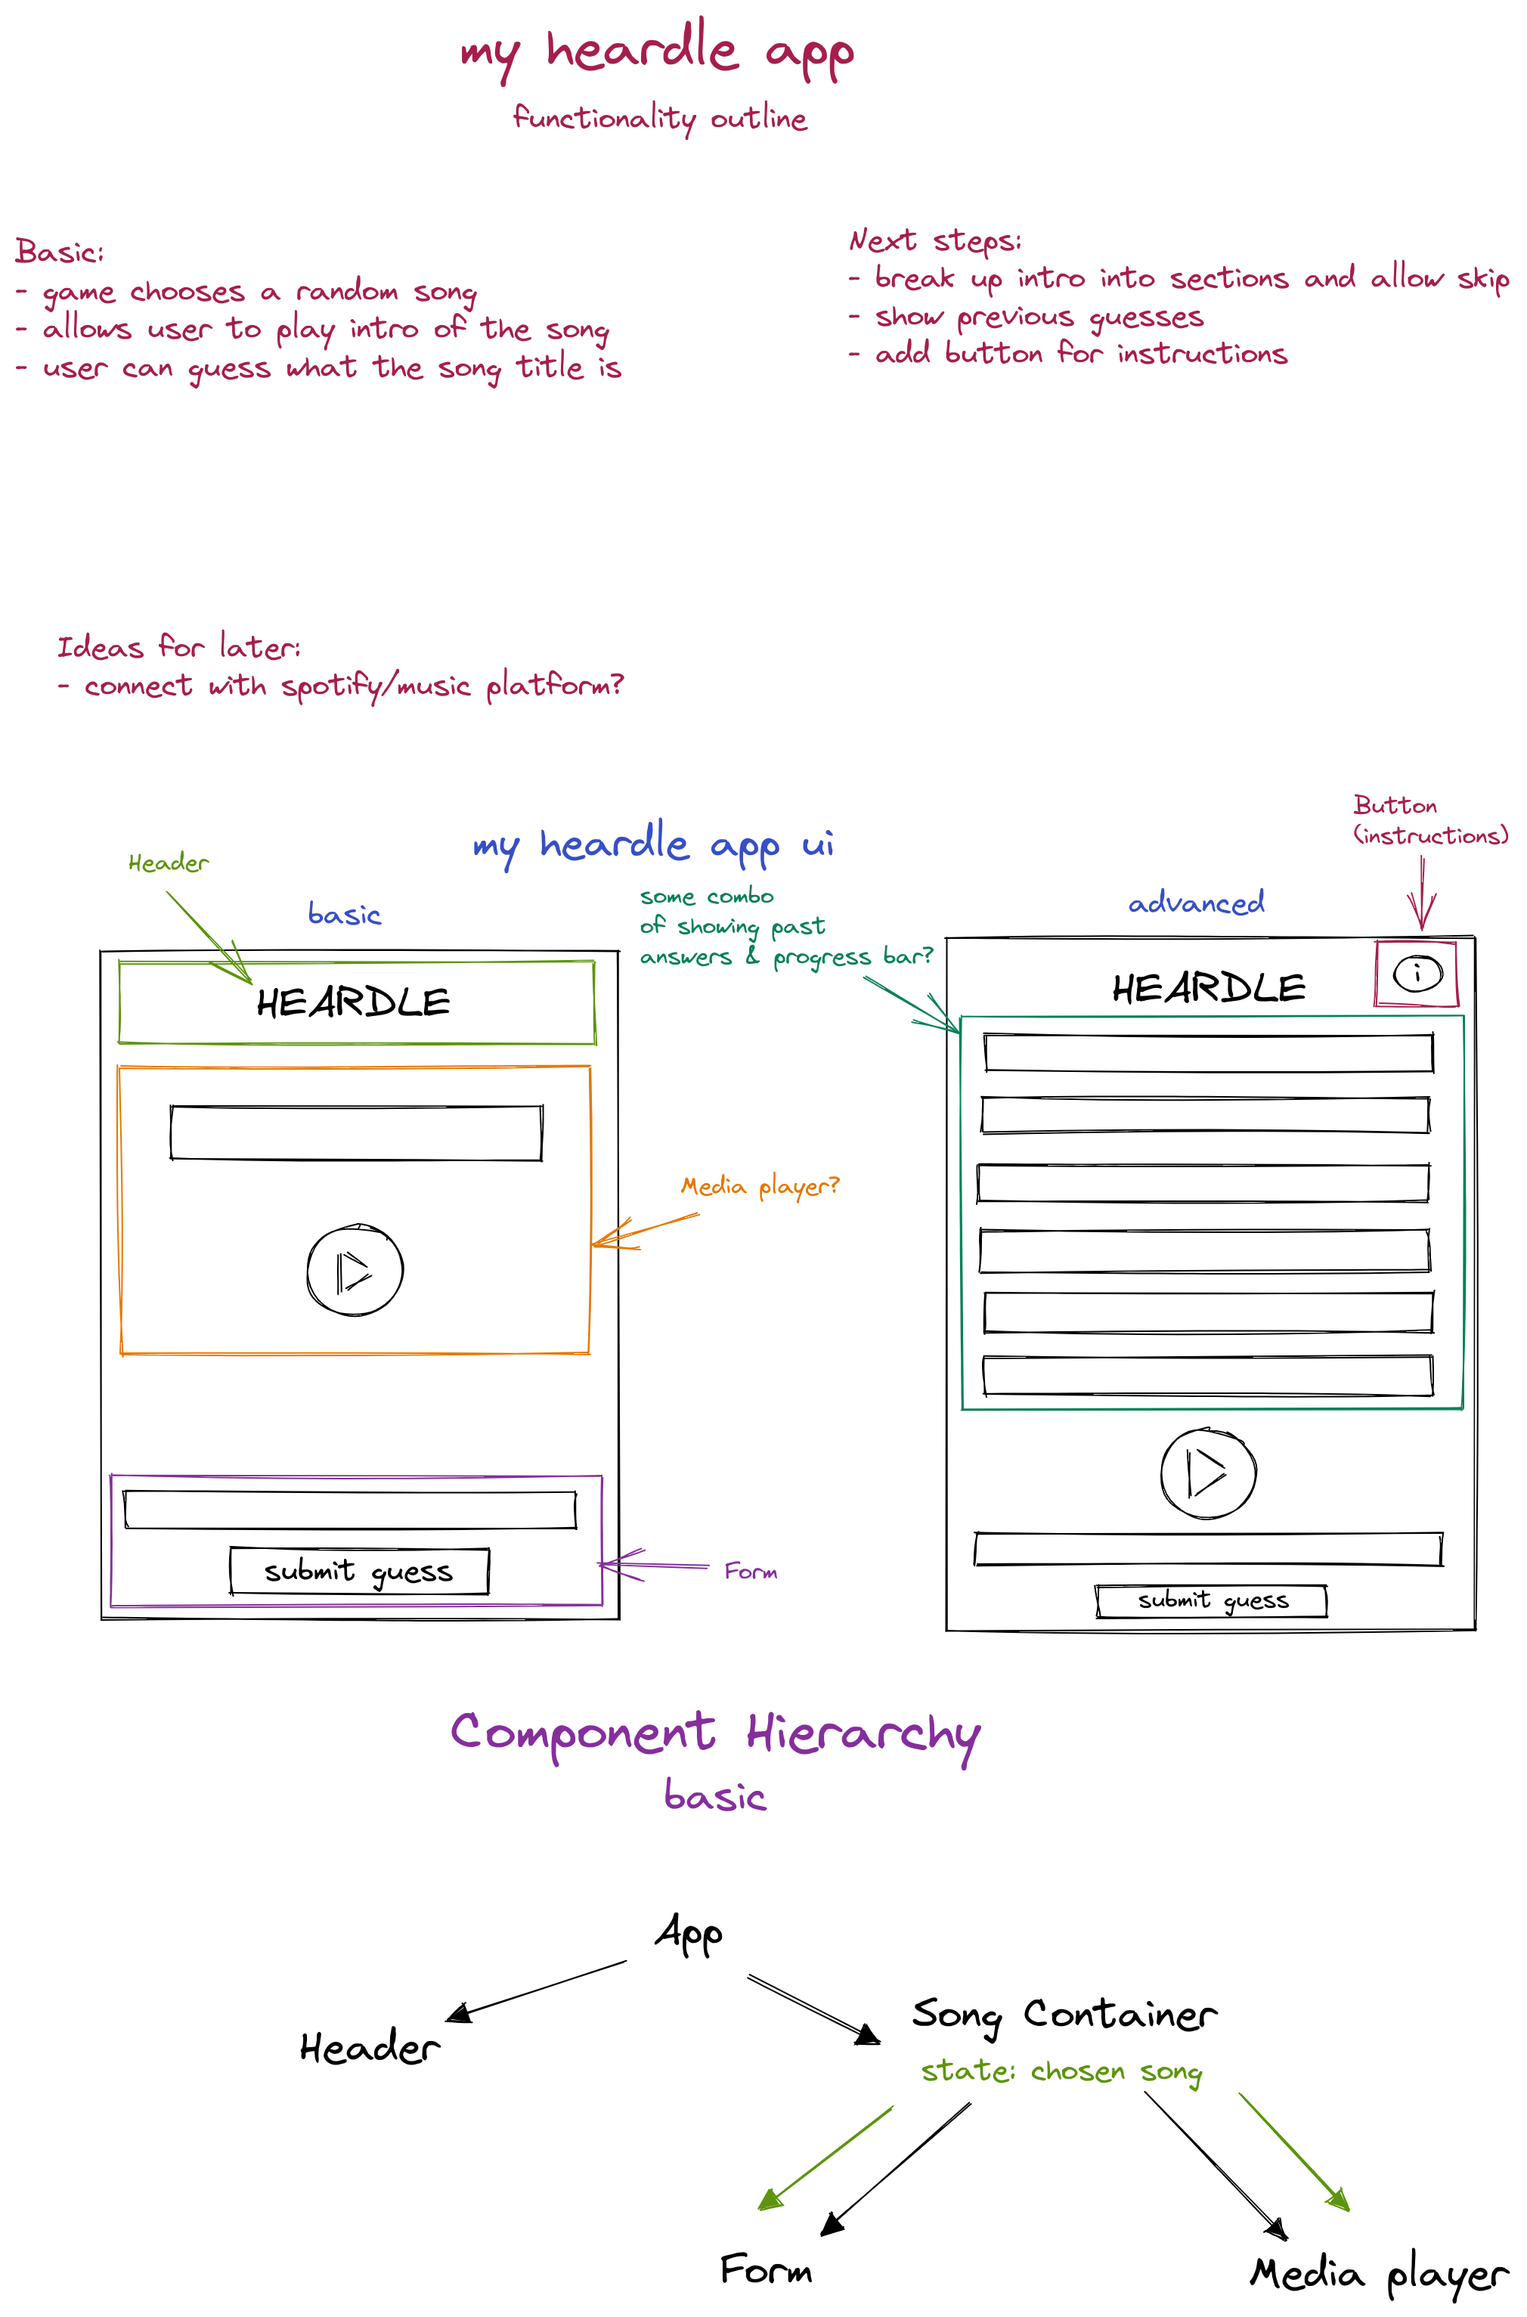
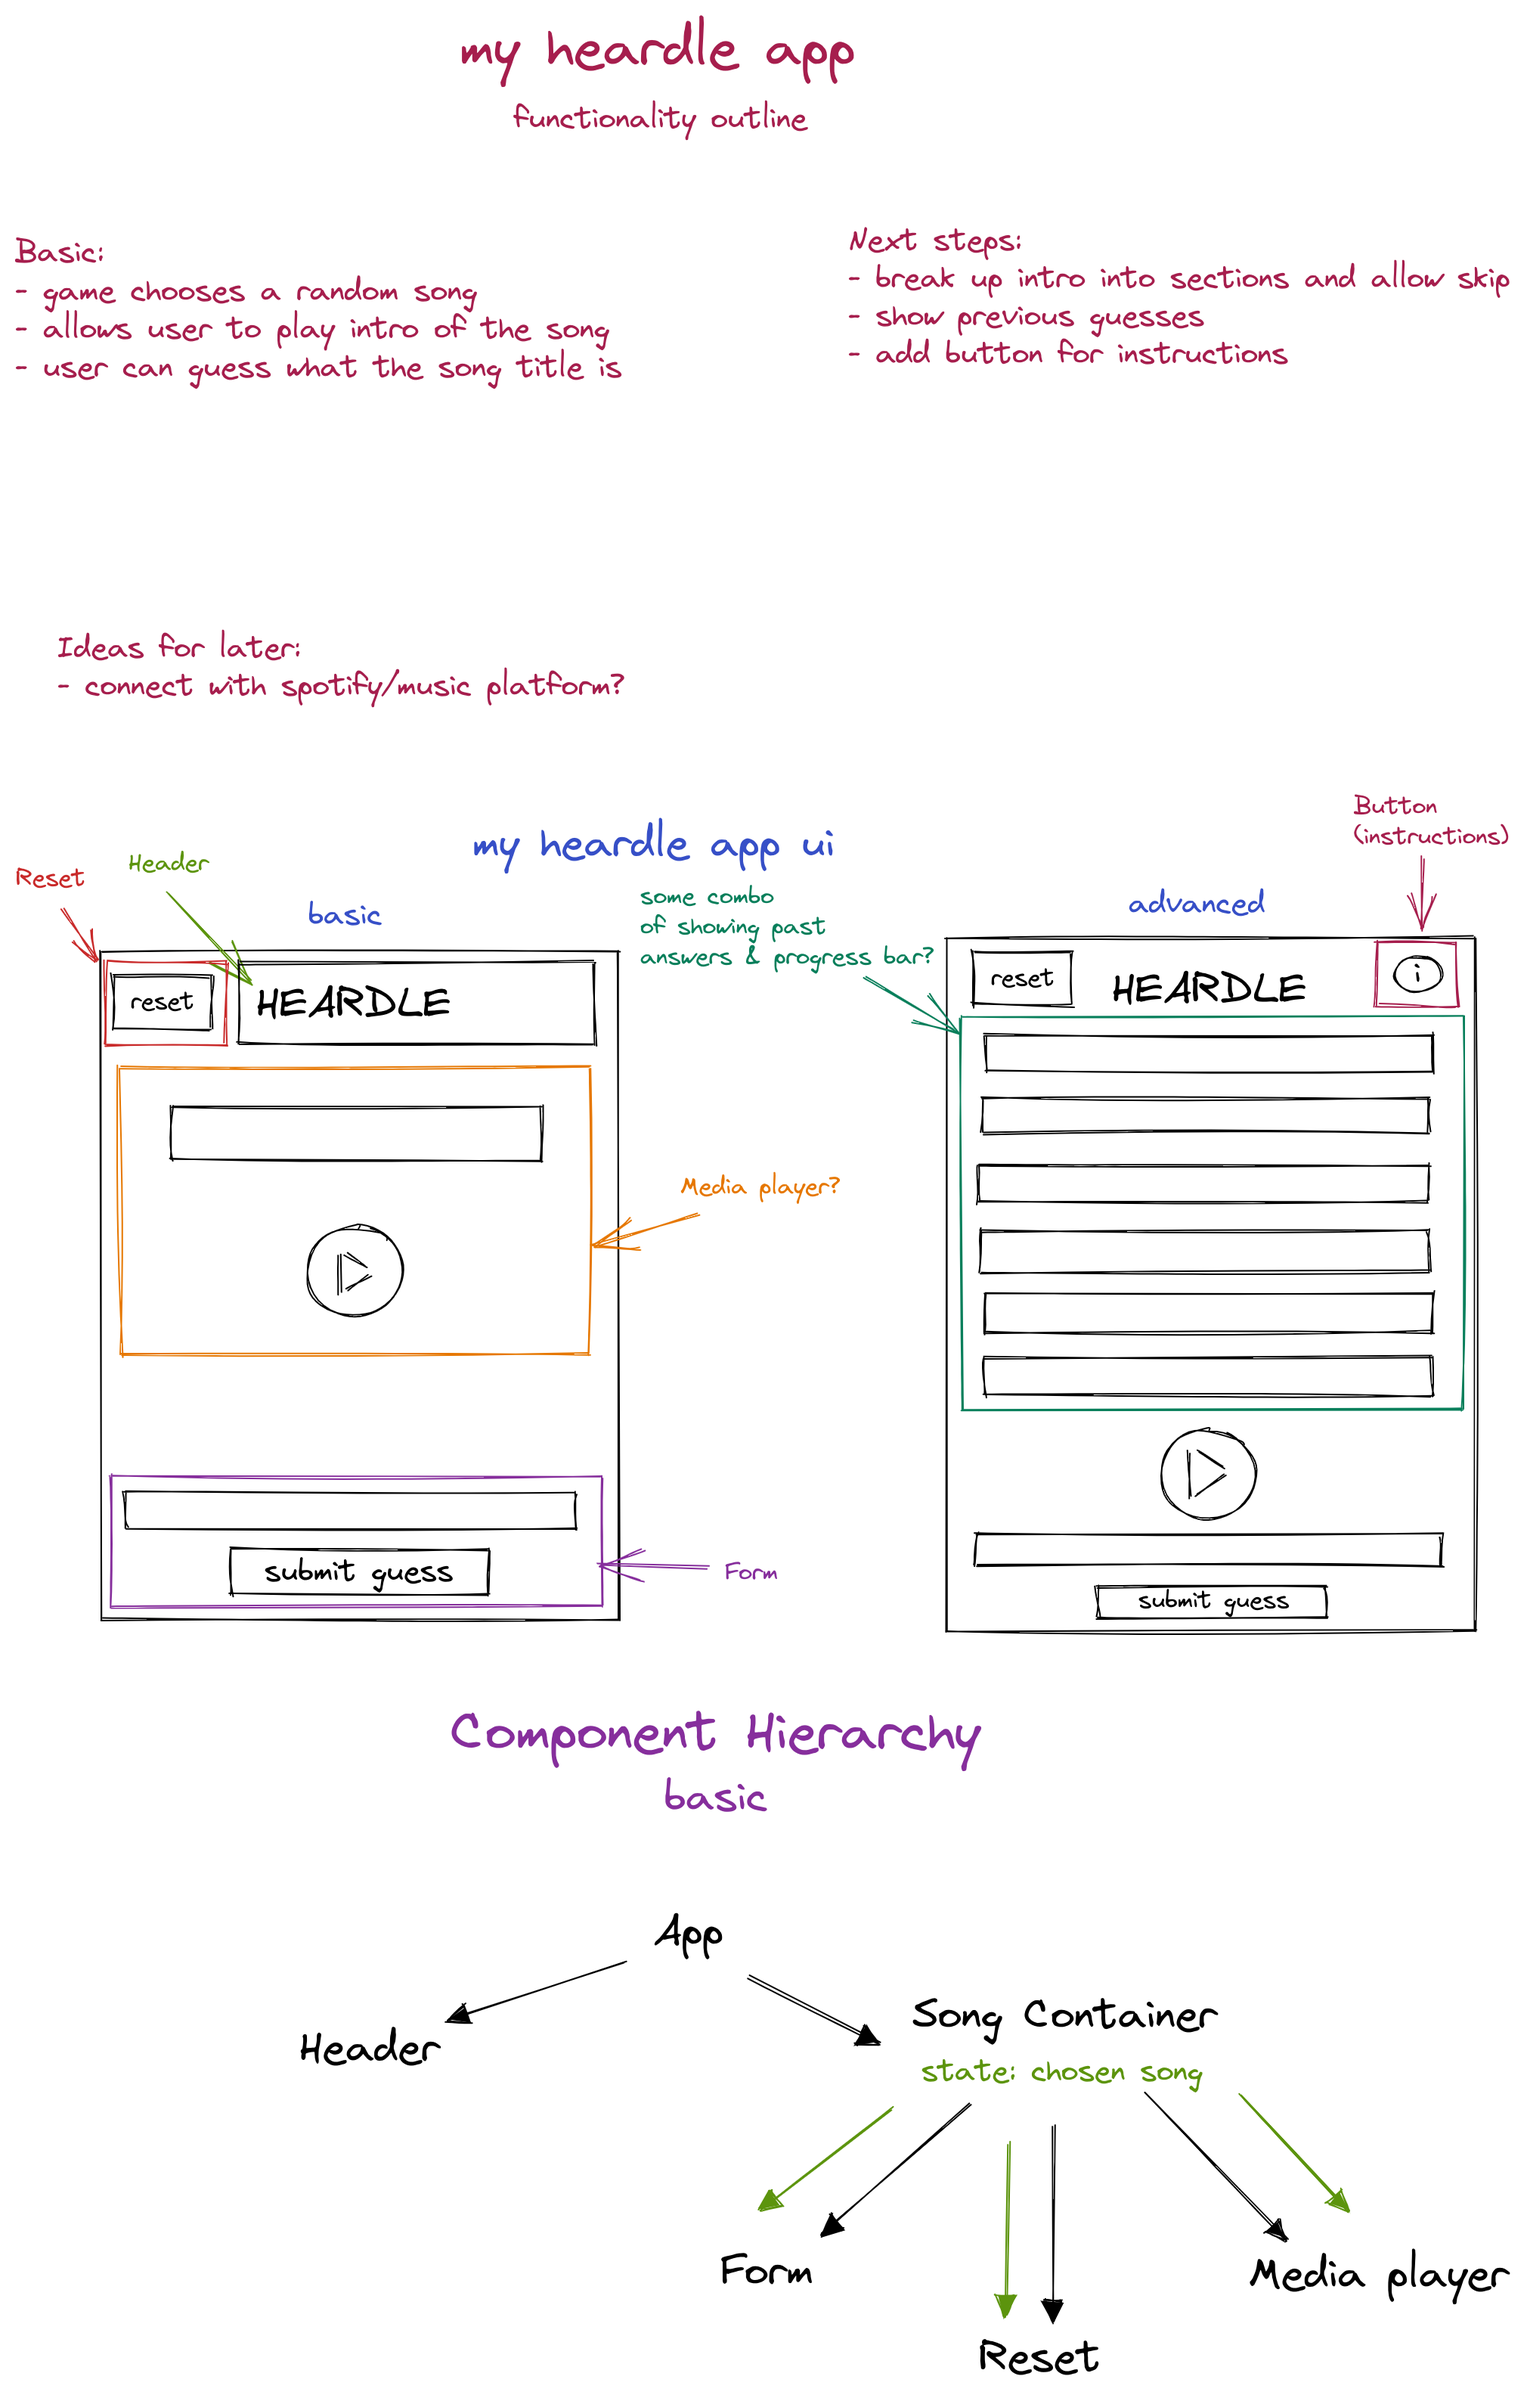
update outline and add non-audio components

diff --git a/src/App.js b/src/App.js
@@ -1,7 +1,14 @@
 import "./App.css";
+import Header from "./components/Header";
+import SongContainer from "./components/Form";
 
 function App() {
-  return <div className="App"></div>;
+  return (
+    <div className="App">
+      <Header />
+      <SongContainer />
+    </div>
+  );
 }
 
 export default App;

diff --git a/src/components/SongContainer.jsx b/src/components/SongContainer.jsx
@@ -1,0 +1,13 @@
+import Form from "./Form";
+import Reset from "./Reset";
+
+const SongContainer = () => {
+  return (
+    <>
+      <Reset />
+      <Form />
+    </>
+  );
+};
+
+export default SongContainer;

diff --git a/src/components/Reset.jsx b/src/components/Reset.jsx
@@ -1,0 +1,5 @@
+const Reset = () => {
+  return <div></div>;
+};
+
+export default Reset;

diff --git a/src/components/Form.jsx b/src/components/Form.jsx
@@ -1,0 +1,5 @@
+const Form = () => {
+  return <div></div>;
+};
+
+export default Form;

diff --git a/src/components/Header.jsx b/src/components/Header.jsx
@@ -1,0 +1,3 @@
+export default Header = () => {
+  return <h1></h1>;
+};
